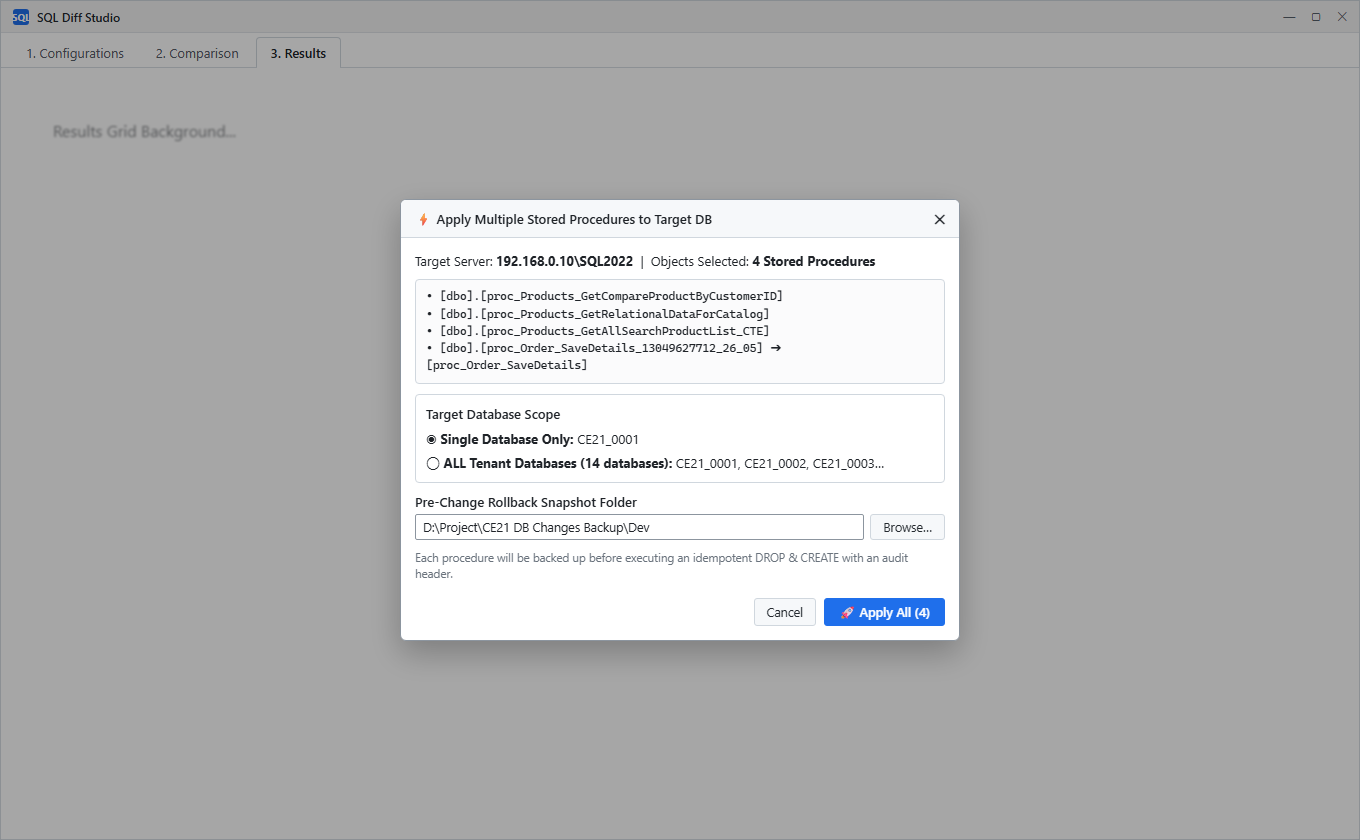
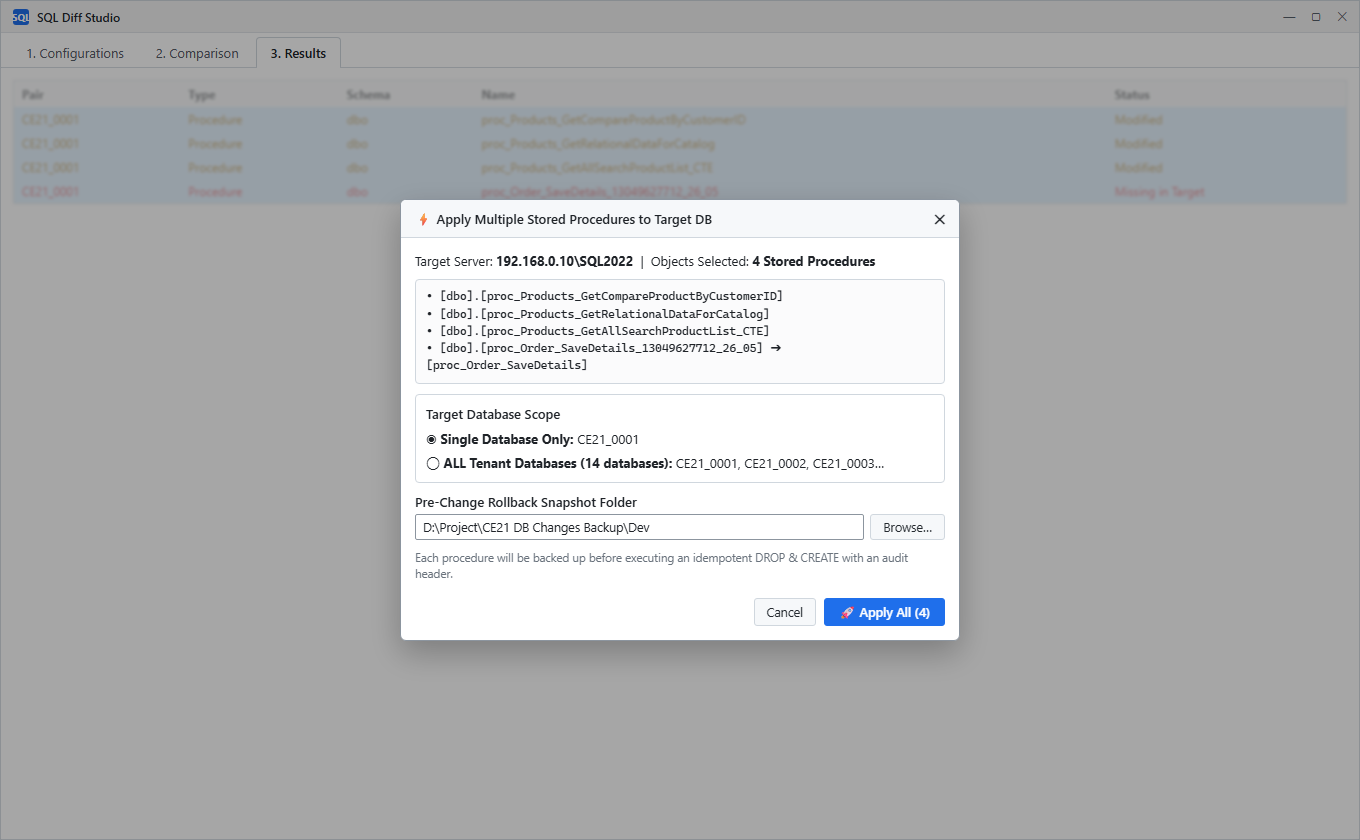
fix(ui): preserve line breaks in code-block, add Presentation nav link, and polish bulk apply screenshot background

diff --git a/docs.html b/docs.html
@@ -28,6 +28,7 @@
                 <a href="index.html#workflow" class="nav-link">How It Works</a>
                 <a href="user-guide.html" class="nav-link">User Guide</a>
                 <a href="docs.html" class="nav-link active">Documentation</a>
+                <a href="presentation.html" class="nav-link">Presentation</a>
                 <a href="releases.html" class="nav-link">Releases</a>
             </nav>
 
@@ -69,8 +70,7 @@
             <p class="article-p">
                 SQL Diff Studio is structured into decoupled modules enforcing strict unidirectional Clean Architecture dependency flows. The Domain core has zero external library dependencies.
             </p>
-            <div class="code-block">
-SqlDiffStudio.slnx
+            <div class="code-block">SqlDiffStudio.slnx
 ├── SqlDiffStudio.Domain                   (Entities, Enums, Value Objects, Interfaces)
 ├── SqlDiffStudio.DatabaseProviders
 │   ├── SqlDiffStudio.DatabaseProviders.Abstractions (IDatabaseProvider contracts)

diff --git a/releases.html b/releases.html
@@ -29,6 +29,7 @@
                 <a href="index.html#workflow" class="nav-link">How It Works</a>
                 <a href="user-guide.html" class="nav-link">User Guide</a>
                 <a href="docs.html" class="nav-link">Documentation</a>
+                <a href="presentation.html" class="nav-link">Presentation</a>
                 <a href="releases.html" class="nav-link active">Releases</a>
             </nav>
 

diff --git a/user-guide.html b/user-guide.html
@@ -29,6 +29,7 @@
                 <a href="index.html#workflow" class="nav-link">How It Works</a>
                 <a href="user-guide.html" class="nav-link active">User Guide</a>
                 <a href="docs.html" class="nav-link">Documentation</a>
+                <a href="presentation.html" class="nav-link">Presentation</a>
                 <a href="releases.html" class="nav-link">Releases</a>
             </nav>
 

diff --git a/styles.css b/styles.css
@@ -697,6 +697,8 @@ a:hover {
     font-family: var(--font-mono);
     font-size: 12px;
     line-height: 1.55;
+    white-space: pre;
+    tab-size: 4;
     overflow-x: auto;
     margin: 1rem 0;
     color: var(--color-fg-default);
